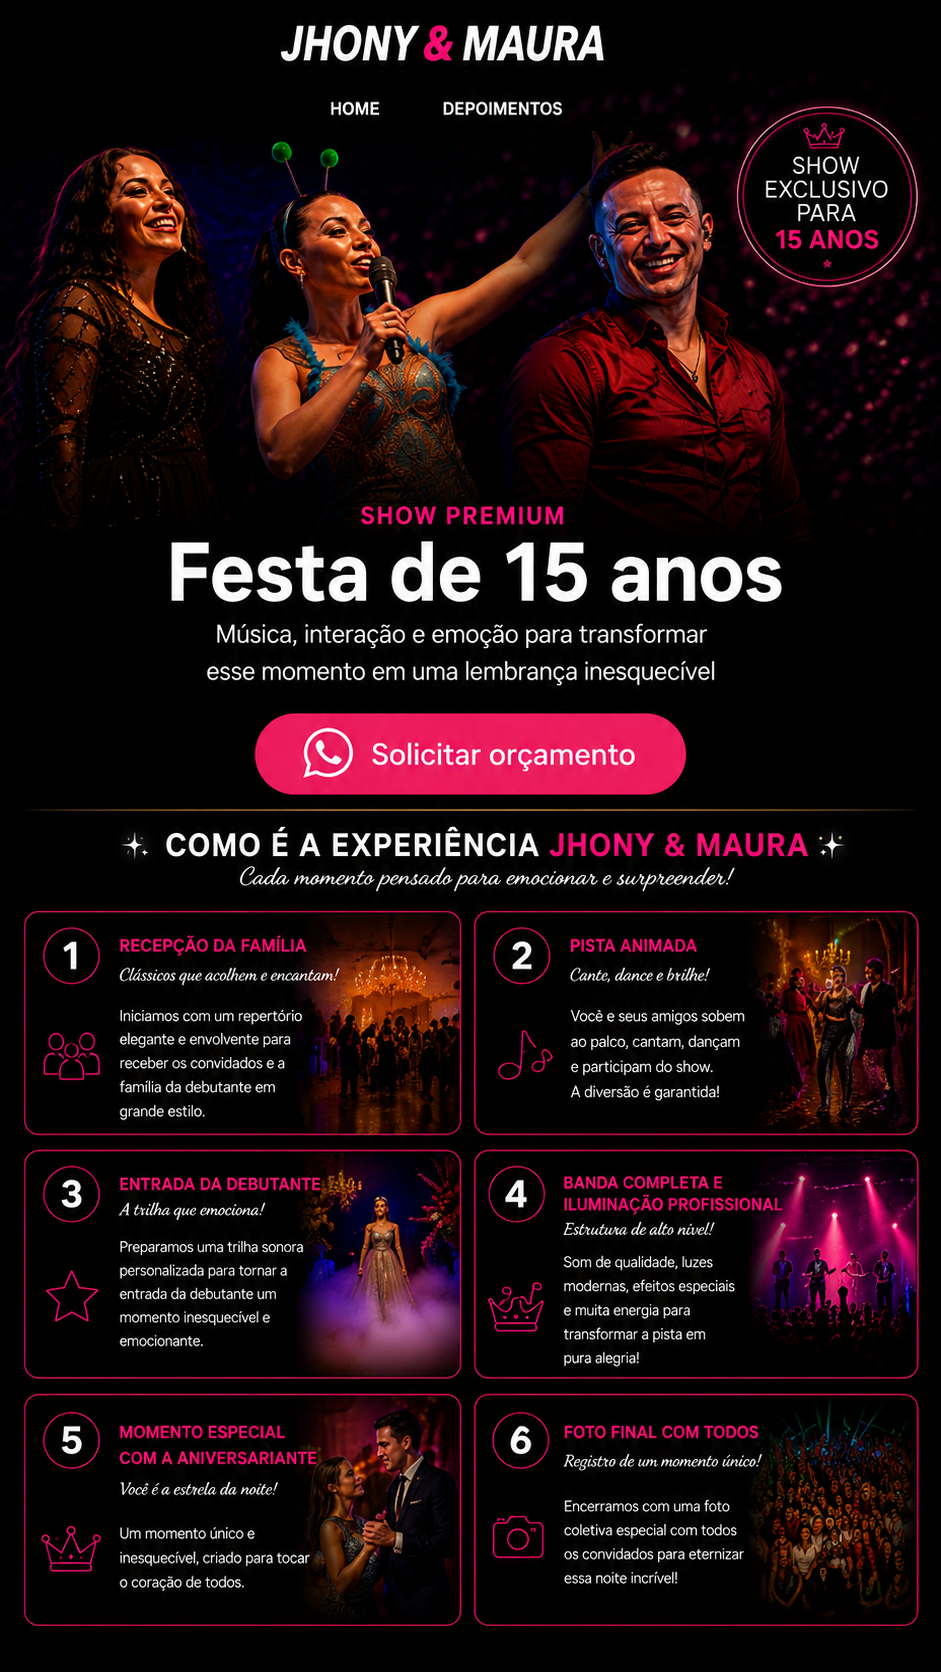
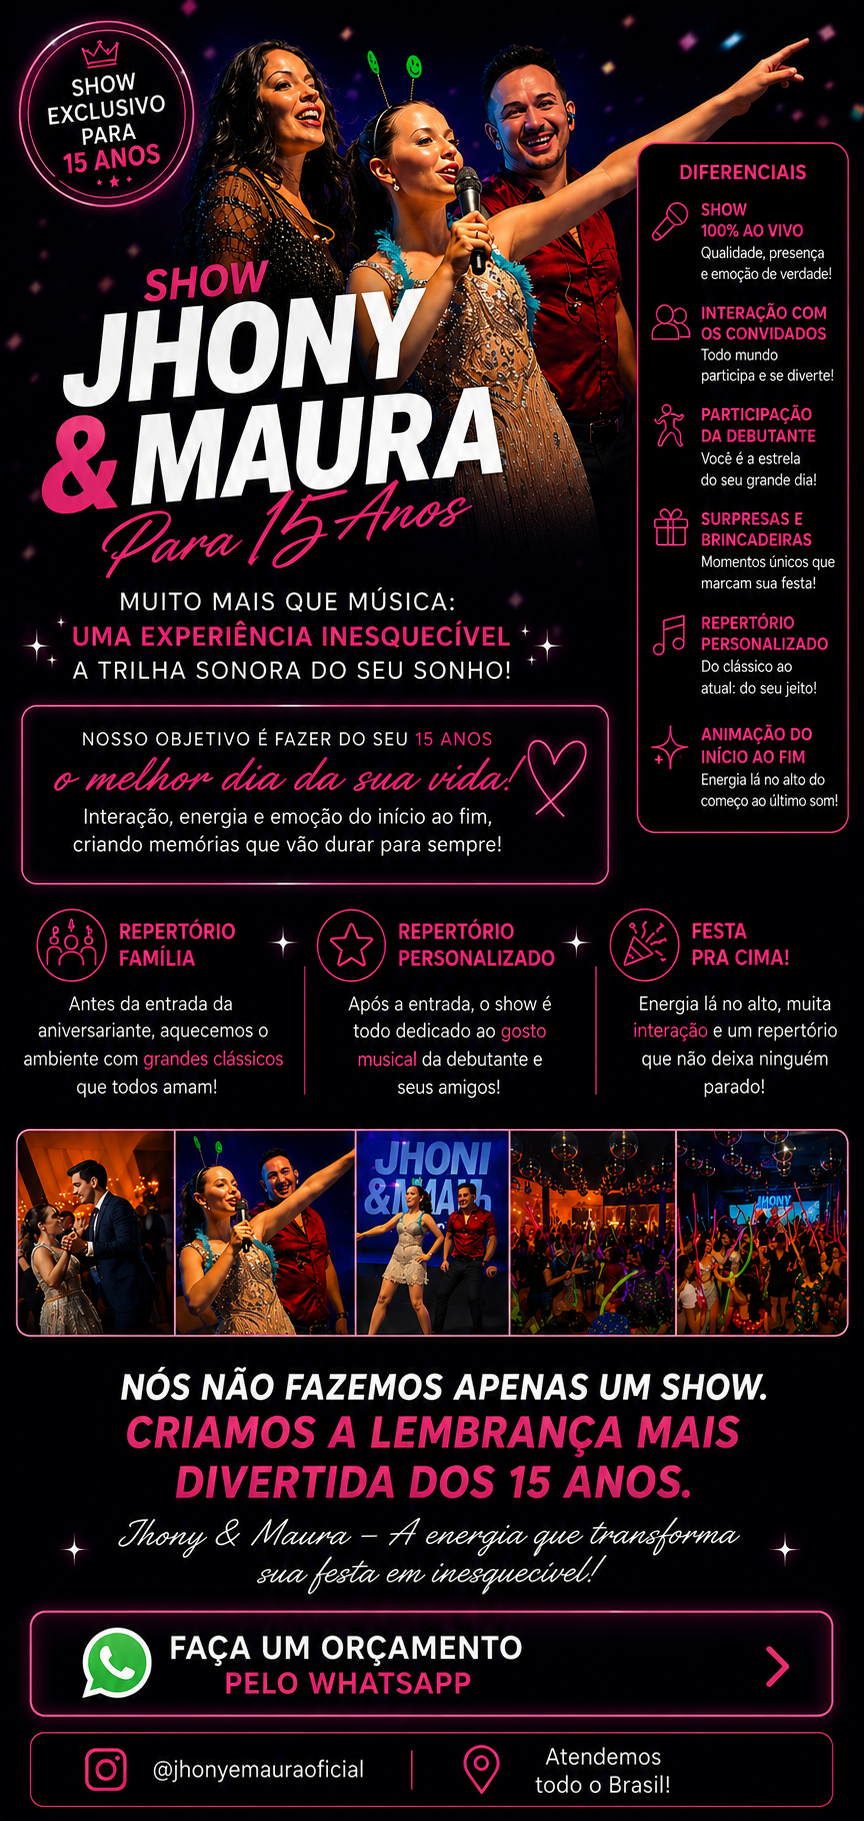
adicionando mais mídias em 29/06/2026

diff --git a/shows/15-anos.html b/shows/15-anos.html
@@ -4,36 +4,55 @@
     <meta charset="UTF-8">
     <meta name="viewport" content="width=device-width, initial-scale=1.0">
     <title>Jhony & Maura | 15 anos</title>
-    
+
     <link rel="stylesheet" href="../style.css">
     <link rel="stylesheet" href="../eventos.css">
 </head>
 <body>
-    
-    <!-----HERO----->
-   <section class="evento-banner">
 
-    <picture>
+    <!----- HERO ----->
+    <section class="evento-banner">
 
-        <source
-        media="(max-width: 768px)"
-        srcset="../assets/eventos/15-anos/15-anos-mobile.png">
-        
-        <img
-        src="../assets/eventos/15-anos/15-anos.png"
-        alt="Show Premium - Festa de 15 anos"
-        class="evento-banner-img">
-        
-    </picture>
+        <picture>
 
-    <a
-        href="https://wa.me/5537SEUNUMERO"
-        target="_blank"
-        rel="noopener"
-        class="evento-banner-btn banner-15anos"
-        aria-label="Solicitar orçamento">
-    </a>
+            <source
+                media="(max-width: 768px)"
+                srcset="../assets/eventos/15-anos/15-anos-mobile.png">
 
-</section>
+            <img
+                src="../assets/eventos/15-anos/15-anos.png"
+                alt="Show Premium - Festa de 15 anos"
+                class="evento-banner-img">
+
+        </picture>
+
+        <a
+            href="https://wa.me/5537SEUNUMERO"
+            target="_blank"
+            rel="noopener"
+            class="evento-banner-btn banner-15anos"
+            aria-label="Solicitar orçamento">
+        </a>
+
+    </section>
+
+    <!----- EXPERIÊNCIA ----->
+    <section class="evento-info">
+
+        <picture>
+
+            <source
+                media="(max-width:768px)"
+                srcset="../assets/eventos/15-anos/info-mobile.png">
+
+            <img
+                src="../assets/eventos/15-anos/info-desktop.png"
+                alt="Como é a experiência Jhony & Maura em festas de 15 anos"
+                class="evento-info-img">
+
+        </picture>
+
+    </section>
+
 </body>
 </html>

diff --git a/style.css b/style.css
@@ -191,31 +191,30 @@ img { display: block; max-width: 100%; }
 .hero-title{
     display:block;
     margin:0;
-    text-align:left;
-    line-height:.88;
-    font-size:clamp(5rem,8vw,8rem);
+    text-align:center;
+    line-height:.98;
+    font-size:50px;
 }
 
 
 .hero-info{
-    align-items: flex-start;
     position:absolute;
 
-    top:50%;
-    right:5%;
+    top: 55%;
+    left:50%;
 
-    left:auto;
+    transform:translate(-50%, -25%);
 
-    transform:translateY(-50%);
-
-    width:min(560px,38vw);
+    width:500px;
 
     display:flex;
     flex-direction:column;
-    align-items:flex-start;
+    align-items:center;
     justify-content:center;
 
     gap:1.5rem;
+
+    text-align:center;
 }
 
 
@@ -257,7 +256,7 @@ img { display: block; max-width: 100%; }
 
 /* ════════════════════ BOTÕES ════════════════════ */
 .btn {
-    align-self: flex-start;
+    align-self: center;
     position: relative;
     overflow: hidden;
     display: inline-flex;
@@ -1009,7 +1008,7 @@ img { display: block; max-width: 100%; }
 }
 
     .hero-content {
-        min-height: 100svh;
+        max-width: 560px;
         justify-content: center;
         padding-inline: 1.25rem;
     }
@@ -1040,9 +1039,9 @@ img { display: block; max-width: 100%; }
 
    .hero-title{
 
-    font-size:clamp(3rem,14vw,4.5rem);
+    font-size:clamp(3.8rem, 7vw, 6rem);
 
-    line-height:.88;
+    line-height:.92;
 
 }
 
